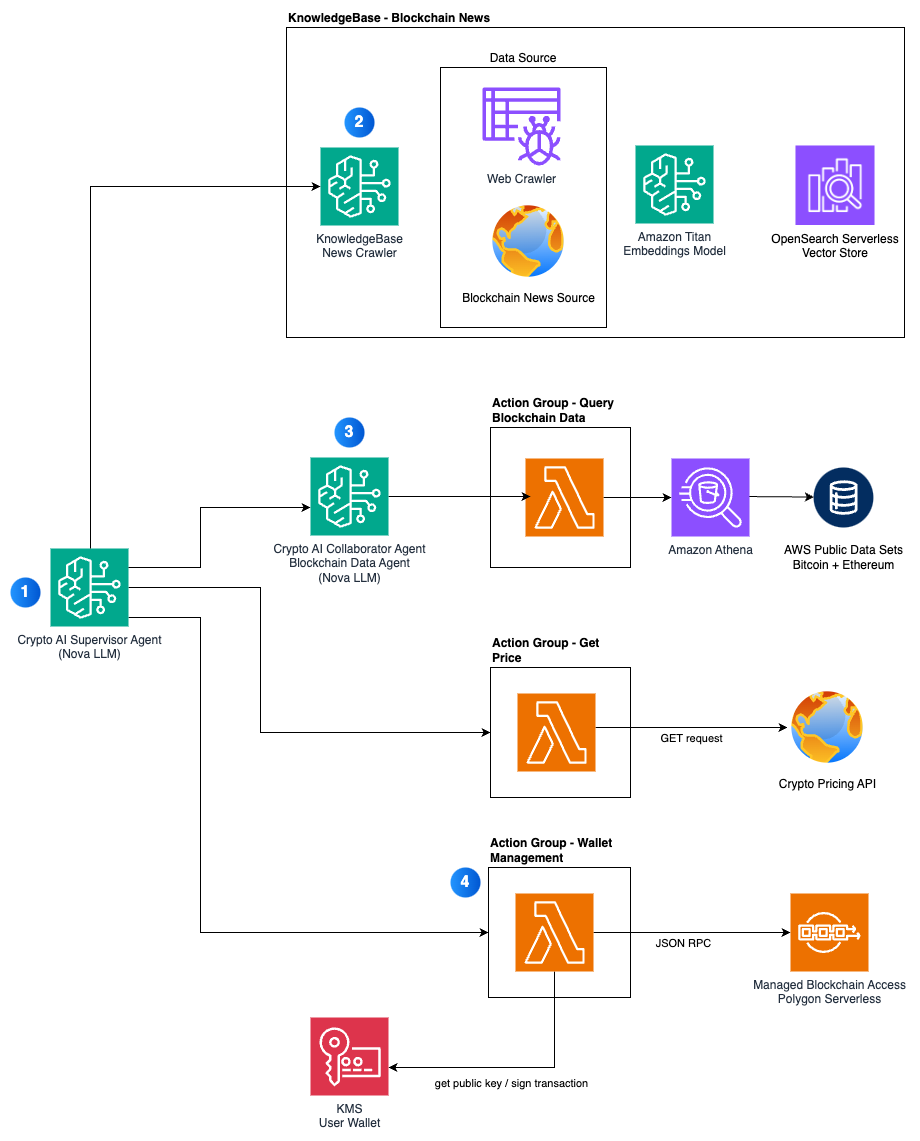
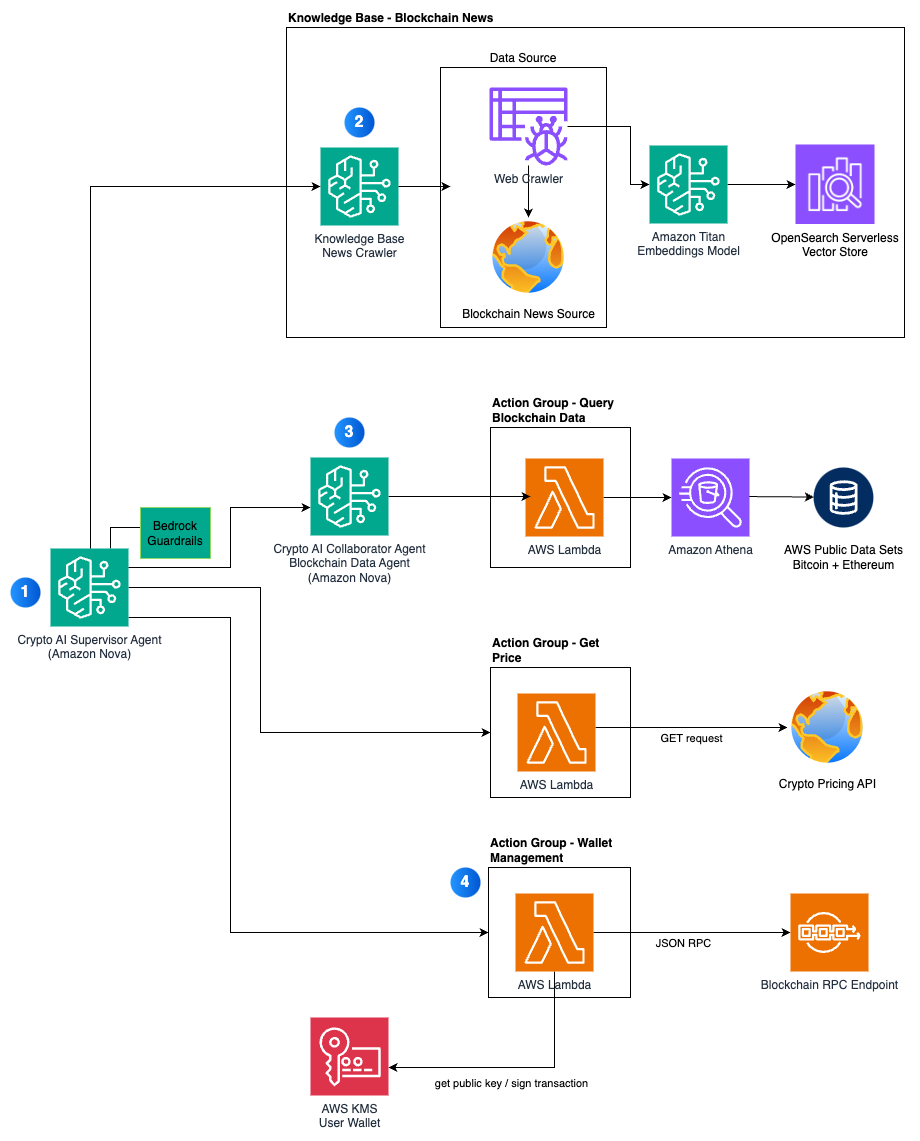
Update deployment instructions

diff --git a/README.md b/README.md
@@ -1,67 +1,115 @@
-# Welcome to Crypto AI Agents on Amazon Bedrock
+# Crypto AI Agents on Amazon Bedrock
 
-Note: this repo is still undergoing development and testing.
+As Web3 and generative AI technologies continue to rapidly evolve, a new category of applications known as Crypto AI Agents has emerged. These agents use large language models (LLMs) for their intelligence to accomplish a variety of blockchain-related tasks through a supervisor-collaborator architecture. A supervisor agent orchestrates specialized collaborator agents to analyze blockchain data, identify on-chain investment opportunities, and interact with both humans and other agents. These agents can be equipped with cryptocurrency wallets for autonomous transactions when opportunities arise.
 
-### Solution Architecture
+Engaging with cryptocurrencies on-chain using AI agents presents several technical challenges: 
+- Orchestrating multiple specialized agents for complex tasks
+- Securely maintaining cryptocurrency wallets
+- Integrating real-time and historical data feeds
+- Accessing and analyzing current news
+- Preventing hallucinations through reliable data sources
+- Managing secure blockchain interactions
+
+This repository presents a solution architecture for foundational building blocks for a Crypto AI Agent. The solution leverages several AWS services:
+- [Amazon Bedrock Agents](https://aws.amazon.com/bedrock/agents/) for creating supervisor and collaborator agents
+- [Amazon Bedrock Knowledge Bases](https://aws.amazon.com/bedrock/knowledge-bases/) for news aggregation 
+- The [Amazon Nova](https://aws.amazon.com/ai/generative-ai/nova/) family of models for state-of-the-art language processing
+- [AWS Key Management Service](https://aws.amazon.com/kms/) (AWS KMS) for secure wallet management
+- [Amazon Managed Blockchain](https://aws.amazon.com/managed-blockchain/) for network access
+- [Amazon OpenSearch Serverless](https://aws.amazon.com/opensearch-service/features/serverless/) for vectorized data storage
+
+## Solution Architecture
+The Crypto AI Agent is designed with the following capabilities:
+
+•	Analyze token market data, including real-time token prices
+•	Estimate gas fees for submitting transactions
+•	Query on-chain wallet balances for tokens
+•	Provide investment recommendations (these are simulated)
+•	Submit transactions to the blockchain (send payment to another address)
+•	Aggregate near real-time Web3 news and data
+•	Support complex tasks through multi-agent orchestration
+
+The following diagram illustrates the solution architecture and how the various components work together to provide the Crypto AI Agent with its capabilities.
+
 ![Architecture Diagram](architecture.png)
 
-(Details forthcoming on the solution illustration)
+1. The supervisor agent coordinates actions across its own action groups and other collaborator agents to fulfill user requests
+2. A Bedrock knowledge base that contains current blockchain news and trends
+3. A collaborator agent specializing in accessing historic bitcoin and ethereum data
+4. Action group used by the supervisor agent to complete wallet related actions such as querying balances and sending transactions
 
-### Testing
-To test it:
-- deploy the CDK application using the instructions below (this has been tested to work)
-- below here nothing has been tested :) 
-- enable Bedrock Model Access for Amazon Nova Lite V1
-- once CDK has been deployed, you will likely need to manually start a sync for the blockchain news knowledge base web crawler
+## Deploy the solution
 
-### Prepare Environment
+The solution is an [AWS CDK](https://aws.amazon.com/cdk/) application. Follow the steps below to deploy it.
 
-1. Copy `.env.sample` to a new `.env` file
-2. Update `.env` with the appropriate values, including the AWS account ID. If you would like your agent to query current  cryptocurrency prices, you will need to obtain a CoinGecko API key; otherwise, you can skip this. The default solution uses Polygon mainnet via Amazon Managed Blockchain. You can override this and use a different network and provider by setting an RPC endpoint for `BLOCKCHAIN_RPC_URL`. 
+1. Clone this repository and change directory into it
+```
+git clone git@github.com:aws-samples/crypto-ai-agents-with-amazon-bedrock.git
+cd crypto-ai-agents-with-amazon-bedrock
+```
 
-### Install dependencies
+2. Prepare your environment
 
+Copy `.env.sample` to a new `.env` file
+```
+cp .env.sample .env
+```
+
+Update `.env` with the appropriate values, including the AWS account ID.
+
+The solution defaults to using Polygon mainnet and accesses it via Amazon Managed Blockchain. If you want to use a different EVM-compatible network, specify the RPC endpoint in the `BLOCKCHAIN_RPC_URL` variable in the `.env`.
+
+(Optional) If you want your agent to query current cryptocurrency prices, you will need to obtain a [CoinGecko API key](https://www.coingecko.com/en/developers/dashboard)
+
+3. Install dependencies
 ```
 npm install
 ```
 
-### Deploy the stacks
-
-Install CDK locally
+4. Deploy the CDK application
+Install CDK locally.
 ```
 npm install -g aws-cdk
 ```
 
-If you have not done so in this account before, you will need to bootstrap your account for CDK before deploying the stacks.
+If you have not done so in this account before, you will need to bootstrap your account for CDK before deploying the application.
 ```
 cdk bootstrap aws://${CDK_DEPLOY_ACCOUNT}/${CDK_DEPLOY_REGION}
 ```
 
-There are several stacks to deploy, and you can deploy all of them at once by running:
+There are several CDK stacks to deploy, and you can deploy all of them at once by running:
 ```
 cdk deploy --all --require-approval never
 ```
 
 The deployment time is about 10 minutes.
 
-### Enable model access
+5. Enable Bedrock Model Access
 
-If you have not used Claude Haiku v1 in this account before, you will need to enable this.
-1. Open the Bedrock console
-2. xxx
+The model uses the Amazon Nova Lite v1 model and you need to enable access to this model before your agent can use it.
 
-### Orchestrating the two agents together
+- Open [Model access from the Bedrock console](https://us-east-1.console.aws.amazon.com/bedrock/home?region=us-east-1#/modelaccess).
+- Click `Modify model access`
+- Search for `Nova`. Select Amazon Nova Lite. Click `Next`, then `Submit`.
+
+**Orchestrating the two agents together**
 
 The solution deploys two agents; a Supervisor Agent (Crypto AI Agent) which coordinates the user requests across various tasks, and a Collaborator Agent (Blockchain Data Agent) which fulfills a specific need of accessing historic blockchain data. We want our users to only have to send their queries to the Supervisor Agent, instead of needing to switch between agents. Therefore, any time a user wants to query historic blockchain data, we need our Supervisor Agent to delegate this request to the Collaborator Agent. The steps below guide you on how to do this.
 
-rough outline:
-1. from supervisor agent, enable multi-agent collaboration.
-2. under Collaboration configuration, select `Supervisor`
-3. select the blockchain data agent as the collaborator, and select a version (or alias?)
-4. set the collaborator name to `blockchain-data-collaborator-agent`
-5. set the Collaborator instruction to `The blockchain-data-collaborator-agent can query historic bitcoin and ethereum data, providing data such as number of transactions within a period of time, details of a block, or how many times a token was a transferred within a period of time.`
-6. Click 'save and exit'. Click `Prepare` to prepare a new version of the agent.
+1. From supervisor agent, enable multi-agent collaboration
+2. Under Collaboration configuration, select `Supervisor`
+3. Select the blockchain data agent as the collaborator, and select a version
+4. Set the collaborator name to `blockchain-data-collaborator-agent`
+5. Set the Collaborator instruction to `The blockchain-data-collaborator-agent can query historic bitcoin and ethereum data, providing data such as number of transactions within a period of time, details of a block, or how many times a token was a transferred within a period of time.`
+6. Click 'Save and exit'. Click `Prepare` to prepare a new version of the agent.
 
+### Testing
+
+Test out the agent with these prompts:
+- How many bitcoin transactions were there yesterday?
+- What is your wallet address?
+- Send .00001 POL to x.polygon
+- What is the latest news on bitcoin?
 
 ### Troubleshooting Deployment Issues
 
@@ -75,4 +123,3 @@ See [CONTRIBUTING](CONTRIBUTING.md#security-issue-notifications) for more inform
 ## License
 
 This library is licensed under the MIT-0 License. See the LICENSE file.
-
